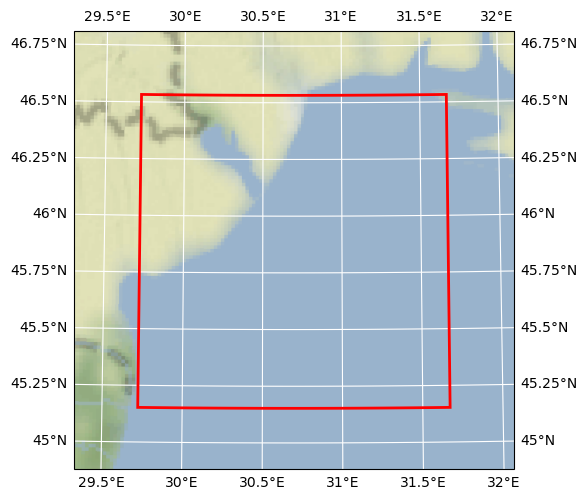
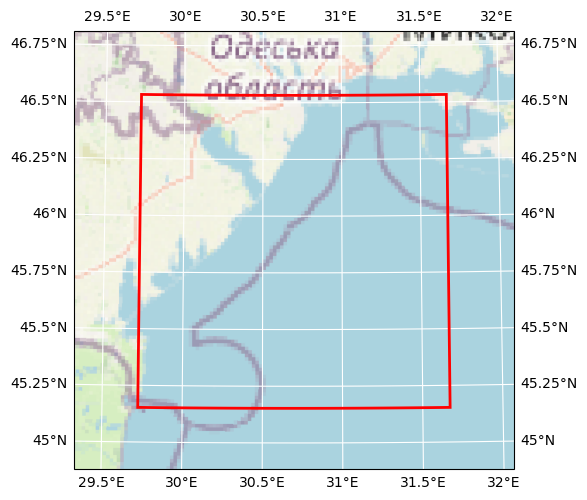
updated data cube docs

diff --git a/docs/datasets/BlackSea_1d_20160101_20160331_bgc_nut.md b/docs/datasets/BlackSea_1d_20160101_20160331_bgc_nut.md
@@ -3,7 +3,7 @@
 ## Basic information
 
 ![Bounding box map](BlackSea_1d_20160101_20160331_bgc_nut.png)<br>
-<span style="font-size: x-small">Map tiles by <a href="http://stamen.com">Stamen Design</a>, under <a href="http://creativecommons.org/licenses/by/3.0">CC BY 3.0</a>. Data by <a href="http://openstreetmap.org">OpenStreetMap</a>, under <a href="http://www.openstreetmap.org/copyright">ODbL</a>.</span>
+<span style="font-size: x-small">Map tiles and Data by <a href="http://openstreetmap.org">OpenStreetMap</a>, under <a href="http://www.openstreetmap.org/copyright">ODbL</a>.</span>
 
 | Parameter | Value |
 | ---- | ---- |
@@ -17,26 +17,23 @@
 
 ## Variable list
 
-| Variable | Identifier | Units |
-| ---- | ---- | ---- |
-| [bivalent iron iron](#F2\_f) | F2\_f | umol Fe/m^3 |
-| [trivalent iron iron](#F3\_f) | F3\_f | umol Fe/m^3 |
-| [bivalent manganese manganese](#M2\_m) | M2\_m | umol Mn/m^3 |
-| [trivalent manganese manganese](#M3\_m) | M3\_m | umol Mn/m^3 |
+| Variable                                   | Identifier | Units |
+|--------------------------------------------| ---- | ---- |
+| [bivalent iron iron](#F2\_f)               | F2\_f | umol Fe/m^3 |
+| [trivalent iron iron](#F3\_f)              | F3\_f | umol Fe/m^3 |
+| [bivalent manganese manganese](#M2\_m)     | M2\_m | umol Mn/m^3 |
+| [trivalent manganese manganese](#M3\_m)    | M3\_m | umol Mn/m^3 |
 | [quadrivalent manganese manganese](#M4\_m) | M4\_m | umol Mn/m^3 |
-| [phosphate phosphorus](#N1\_p) | N1\_p | mmol P/m^3 |
-| [nitrite nitrogen](#N2\_n) | N2\_n | mmol N/m^3 |
-| [nitrate nitrogen](#N3\_n) | N3\_n | mmol N/m^3 |
-| [ammonium nitrogen](#N4\_n) | N4\_n | mmol N/m^3 |
-| [silicate silicate](#N5\_s) | N5\_s | mmol Si/m^3 |
-| [oxygen oxygen](#O2\_o) | O2\_o | mmol O\_2/m^3 |
-| [hydrogen sulfide sulfur](#S1\_u) | S1\_u | mmol Su/m^3 |
-| [elemental sulfur sulfur](#S2\_u) | S2\_u | mmol Su/m^3 |
-| [sulfate sulfur](#S3\_u) | S3\_u | mmol Su/m^3 |
-| [thiosulfate sulfur](#S4\_u) | S4\_u | mmol Su/m^3 |
-| [\[none\]](#deptht\_bounds) | deptht\_bounds | \[none\] |
-| [\[none\]](#time\_centered\_bounds) | time\_centered\_bounds | \[none\] |
-| [\[none\]](#time\_counter\_bounds) | time\_counter\_bounds | \[none\] |
+| [phosphate phosphorus](#N1\_p)             | N1\_p | mmol P/m^3 |
+| [nitrite nitrogen](#N2\_n)                 | N2\_n | mmol N/m^3 |
+| [nitrate nitrogen](#N3\_n)                 | N3\_n | mmol N/m^3 |
+| [ammonium nitrogen](#N4\_n)                | N4\_n | mmol N/m^3 |
+| [silicate silicate](#N5\_s)                | N5\_s | mmol Si/m^3 |
+| [oxygen oxygen](#O2\_o)                    | O2\_o | mmol O\_2/m^3 |
+| [hydrogen sulfide sulfur](#S1\_u)          | S1\_u | mmol Su/m^3 |
+| [elemental sulfur sulfur](#S2\_u)          | S2\_u | mmol Su/m^3 |
+| [sulfate sulfur](#S3\_u)                   | S3\_u | mmol Su/m^3 |
+| [thiosulfate sulfur](#S4\_u)               | S4\_u | mmol Su/m^3 |
 
 ## Full variable metadata
 
@@ -204,21 +201,6 @@
 | long\_name | thiosulfate sulfur |
 | online\_operation | average |
 | units | mmol Su/m^3 |
-
-### <a name="deptht_bounds"></a>None
-
-| Field | Value |
-| ---- | ---- |
-
-### <a name="time_centered_bounds"></a>None
-
-| Field | Value |
-| ---- | ---- |
-
-### <a name="time_counter_bounds"></a>None
-
-| Field | Value |
-| ---- | ---- |
 
 ## <a name="full-metadata"></a>Full dataset metadata
 

diff --git a/docs/datasets/c_gls_LWQ300_black_OLCI_V1.4.0_owt.md b/docs/datasets/c_gls_LWQ300_black_OLCI_V1.4.0_owt.md
@@ -3,7 +3,7 @@
 ## Basic information
 
 ![Bounding box map](c_gls_LWQ300_black_OLCI_V1.4.0_owt.png)<br>
-<span style="font-size: x-small">Map tiles by <a href="http://stamen.com">Stamen Design</a>, under <a href="http://creativecommons.org/licenses/by/3.0">CC BY 3.0</a>. Data by <a href="http://openstreetmap.org">OpenStreetMap</a>, under <a href="http://www.openstreetmap.org/copyright">ODbL</a>.</span>
+<span style="font-size: x-small">Map tiles and Data by <a href="http://openstreetmap.org">OpenStreetMap</a>, under <a href="http://www.openstreetmap.org/copyright">ODbL</a>.</span>
 
 | Parameter | Value |
 | ---- | ---- |
@@ -17,26 +17,26 @@
 
 ## Variable list
 
-| Variable | Identifier | Units |
-| ---- | ---- | ---- |
-| [Optical Water Type 1](#OWT\_1) | OWT\_1 | \[none\] |
-| [Optical Water Type 10](#OWT\_10) | OWT\_10 | \[none\] |
-| [Optical Water Type 11](#OWT\_11) | OWT\_11 | \[none\] |
-| [Optical Water Type 12](#OWT\_12) | OWT\_12 | \[none\] |
-| [Optical Water Type 13](#OWT\_13) | OWT\_13 | \[none\] |
-| [Optical Water Type 14](#OWT\_14) | OWT\_14 | \[none\] |
-| [Optical Water Type 15](#OWT\_15) | OWT\_15 | \[none\] |
-| [Optical Water Type 16](#OWT\_16) | OWT\_16 | \[none\] |
-| [Optical Water Type 17](#OWT\_17) | OWT\_17 | \[none\] |
-| [Optical Water Type 18](#OWT\_18) | OWT\_18 | \[none\] |
-| [Optical Water Type 2](#OWT\_2) | OWT\_2 | \[none\] |
-| [Optical Water Type 3](#OWT\_3) | OWT\_3 | \[none\] |
-| [Optical Water Type 4](#OWT\_4) | OWT\_4 | \[none\] |
-| [Optical Water Type 5](#OWT\_5) | OWT\_5 | \[none\] |
-| [Optical Water Type 6](#OWT\_6) | OWT\_6 | \[none\] |
-| [Optical Water Type 7](#OWT\_7) | OWT\_7 | \[none\] |
-| [Optical Water Type 8](#OWT\_8) | OWT\_8 | \[none\] |
-| [Optical Water Type 9](#OWT\_9) | OWT\_9 | \[none\] |
+| Variable                                      | Identifier | Units |
+|-----------------------------------------------| ---- | ---- |
+| [Optical Water Type 1](#OWT\_1)               | OWT\_1 | \[none\] |
+| [Optical Water Type 10](#OWT\_10)             | OWT\_10 | \[none\] |
+| [Optical Water Type 11](#OWT\_11)             | OWT\_11 | \[none\] |
+| [Optical Water Type 12](#OWT\_12)             | OWT\_12 | \[none\] |
+| [Optical Water Type 13](#OWT\_13)             | OWT\_13 | \[none\] |
+| [Optical Water Type 14](#OWT\_14)             | OWT\_14 | \[none\] |
+| [Optical Water Type 15](#OWT\_15)             | OWT\_15 | \[none\] |
+| [Optical Water Type 16](#OWT\_16)             | OWT\_16 | \[none\] |
+| [Optical Water Type 17](#OWT\_17)             | OWT\_17 | \[none\] |
+| [Optical Water Type 18](#OWT\_18)             | OWT\_18 | \[none\] |
+| [Optical Water Type 2](#OWT\_2)               | OWT\_2 | \[none\] |
+| [Optical Water Type 3](#OWT\_3)               | OWT\_3 | \[none\] |
+| [Optical Water Type 4](#OWT\_4)               | OWT\_4 | \[none\] |
+| [Optical Water Type 5](#OWT\_5)               | OWT\_5 | \[none\] |
+| [Optical Water Type 6](#OWT\_6)               | OWT\_6 | \[none\] |
+| [Optical Water Type 7](#OWT\_7)               | OWT\_7 | \[none\] |
+| [Optical Water Type 8](#OWT\_8)               | OWT\_8 | \[none\] |
+| [Optical Water Type 9](#OWT\_9)               | OWT\_9 | \[none\] |
 | [Dominant Optical Water Type](#dominant\_OWT) | dominant\_OWT | \[none\] |
 
 ## Full variable metadata

diff --git a/docs/datasets/west2018_01_01_2020_reg_hydro_0.01.md b/docs/datasets/west2018_01_01_2020_reg_hydro_0.01.md
@@ -3,7 +3,7 @@
 ## Basic information
 
 ![Bounding box map](west2018_01_01_2020_reg_hydro_0.01.png)<br>
-<span style="font-size: x-small">Map tiles by <a href="http://stamen.com">Stamen Design</a>, under <a href="http://creativecommons.org/licenses/by/3.0">CC BY 3.0</a>. Data by <a href="http://openstreetmap.org">OpenStreetMap</a>, under <a href="http://www.openstreetmap.org/copyright">ODbL</a>.</span>
+<span style="font-size: x-small">Map tiles and Data by <a href="http://openstreetmap.org">OpenStreetMap</a>, under <a href="http://www.openstreetmap.org/copyright">ODbL</a>.</span>
 
 | Parameter | Value |
 | ---- | ---- |
@@ -18,27 +18,17 @@
 
 ## Variable list
 
-| Variable | Identifier | Units |
-| ---- | ---- | ---- |
-| [\[none\]](#lev) | lev | m |
-| [\[none\]](#total\_depth) | total\_depth | m |
-| [\[none\]](#u\_velocity) | u\_velocity | m s\-1 |
-| [\[none\]](#v\_velocity) | v\_velocity | m s\-1 |
-| [\[none\]](#water\_level) | water\_level | m |
+| Variable                                                    | Identifier | Units |
+|-------------------------------------------------------------| ---- | ---- |
+| [Total Depth](#total\_depth)                                | total\_depth | m |
+| [Eastward Sea Water Velocity](#u\_velocity)                 | u\_velocity | m s\-1 |
+| [Northward Sea Water Velocity](#v\_velocity)                | v\_velocity | m s\-1 |
+| [Water Surface Height above Reference Datum](#water\_level) | water\_level | m |
 
 ## Full variable metadata
 
-### <a name="lev"></a>None
 
-| Field | Value |
-| ---- | ---- |
-| axis | Z |
-| description | bottom of vertical layers |
-| positive | down |
-| standard\_name | depth |
-| units | m |
-
-### <a name="total_depth"></a>None
+### <a name="total_depth"></a>Total Depth
 
 | Field | Value |
 | ---- | ---- |
@@ -48,7 +38,7 @@
 | valid\_max | 10000.0 |
 | valid\_min | -100.0 |
 
-### <a name="u_velocity"></a>None
+### <a name="u_velocity"></a>Eastward Sea Water Velocity
 
 | Field | Value |
 | ---- | ---- |
@@ -57,7 +47,7 @@
 | valid\_max | 10.0 |
 | valid\_min | -10.0 |
 
-### <a name="v_velocity"></a>None
+### <a name="v_velocity"></a>Northward Sea Water Velocity
 
 | Field | Value |
 | ---- | ---- |
@@ -66,7 +56,7 @@
 | valid\_max | 10.0 |
 | valid\_min | -10.0 |
 
-### <a name="water_level"></a>None
+### <a name="water_level"></a>Water Surface Height above Reference Datum
 
 | Field | Value |
 | ---- | ---- |

diff --git a/docs/datasets/west2018_01_01_2020_reg_ts_0.01.md b/docs/datasets/west2018_01_01_2020_reg_ts_0.01.md
@@ -3,7 +3,7 @@
 ## Basic information
 
 ![Bounding box map](west2018_01_01_2020_reg_ts_0.01.png)<br>
-<span style="font-size: x-small">Map tiles by <a href="http://stamen.com">Stamen Design</a>, under <a href="http://creativecommons.org/licenses/by/3.0">CC BY 3.0</a>. Data by <a href="http://openstreetmap.org">OpenStreetMap</a>, under <a href="http://www.openstreetmap.org/copyright">ODbL</a>.</span>
+<span style="font-size: x-small">Map tiles and Data by <a href="http://openstreetmap.org">OpenStreetMap</a>, under <a href="http://www.openstreetmap.org/copyright">ODbL</a>.</span>
 
 | Parameter | Value |
 | ---- | ---- |
@@ -18,26 +18,15 @@
 
 ## Variable list
 
-| Variable | Identifier | Units |
-| ---- | ---- | ---- |
-| [\[none\]](#lev) | lev | m |
-| [\[none\]](#salinity) | salinity | 1e\-3 |
-| [\[none\]](#temperature) | temperature | degC |
-| [\[none\]](#total\_depth) | total\_depth | m |
+| Variable                     | Identifier | Units |
+|------------------------------| ---- | ---- |
+| [Salinity](#salinity)        | salinity | 1e\-3 |
+| [Temperature](#temperature)  | temperature | degC |
+| [Total Depth](#total\_depth) | total\_depth | m |
 
 ## Full variable metadata
 
-### <a name="lev"></a>None
-
-| Field | Value |
-| ---- | ---- |
-| axis | Z |
-| description | bottom of vertical layers |
-| positive | down |
-| standard\_name | depth |
-| units | m |
-
-### <a name="salinity"></a>None
+### <a name="salinity"></a>Salinity
 
 | Field | Value |
 | ---- | ---- |
@@ -46,7 +35,7 @@
 | valid\_max | 200.0 |
 | valid\_min | 0.0 |
 
-### <a name="temperature"></a>None
+### <a name="temperature"></a>Temperature
 
 | Field | Value |
 | ---- | ---- |
@@ -55,7 +44,7 @@
 | valid\_max | 100.0 |
 | valid\_min | -10.0 |
 
-### <a name="total_depth"></a>None
+### <a name="total_depth"></a>Total Depth
 
 | Field | Value |
 | ---- | ---- |

diff --git a/docs/datasets/BlackSea_1d_20160101_20160331_bgc_phyto.md b/docs/datasets/BlackSea_1d_20160101_20160331_bgc_phyto.md
@@ -3,7 +3,7 @@
 ## Basic information
 
 ![Bounding box map](BlackSea_1d_20160101_20160331_bgc_phyto.png)<br>
-<span style="font-size: x-small">Map tiles by <a href="http://stamen.com">Stamen Design</a>, under <a href="http://creativecommons.org/licenses/by/3.0">CC BY 3.0</a>. Data by <a href="http://openstreetmap.org">OpenStreetMap</a>, under <a href="http://www.openstreetmap.org/copyright">ODbL</a>.</span>
+<span style="font-size: x-small">Map tiles and Data by <a href="http://openstreetmap.org">OpenStreetMap</a>, under <a href="http://www.openstreetmap.org/copyright">ODbL</a>.</span>
 
 | Parameter | Value |
 | ---- | ---- |
@@ -40,9 +40,6 @@
 | [microphytoplankton iron](#P4\_f) | P4\_f | umol Fe/m^3 |
 | [microphytoplankton nitrogen](#P4\_n) | P4\_n | mmol N/m^3 |
 | [microphytoplankton phosphorus](#P4\_p) | P4\_p | mmol P/m^3 |
-| [\[none\]](#deptht\_bounds) | deptht\_bounds | \[none\] |
-| [\[none\]](#time\_centered\_bounds) | time\_centered\_bounds | \[none\] |
-| [\[none\]](#time\_counter\_bounds) | time\_counter\_bounds | \[none\] |
 
 ## Full variable metadata
 
@@ -276,21 +273,6 @@
 | long\_name | microphytoplankton phosphorus |
 | online\_operation | average |
 | units | mmol P/m^3 |
-
-### <a name="deptht_bounds"></a>None
-
-| Field | Value |
-| ---- | ---- |
-
-### <a name="time_centered_bounds"></a>None
-
-| Field | Value |
-| ---- | ---- |
-
-### <a name="time_counter_bounds"></a>None
-
-| Field | Value |
-| ---- | ---- |
 
 ## <a name="full-metadata"></a>Full dataset metadata
 

diff --git a/docs/datasets/Hereon--WAVES-BSeas4-BS-b20230123_re-sv08.00.md b/docs/datasets/Hereon--WAVES-BSeas4-BS-b20230123_re-sv08.00.md
@@ -3,7 +3,7 @@
 ## Basic information
 
 ![Bounding box map](Hereon--WAVES-BSeas4-BS-b20230123_re-sv08.00.png)<br>
-<span style="font-size: x-small">Map tiles by <a href="http://stamen.com">Stamen Design</a>, under <a href="http://creativecommons.org/licenses/by/3.0">CC BY 3.0</a>. Data by <a href="http://openstreetmap.org">OpenStreetMap</a>, under <a href="http://www.openstreetmap.org/copyright">ODbL</a>.</span>
+<span style="font-size: x-small">Map tiles and Data by <a href="http://openstreetmap.org">OpenStreetMap</a>, under <a href="http://www.openstreetmap.org/copyright">ODbL</a>.</span>
 
 | Parameter | Value |
 | ---- | ---- |
@@ -127,5 +127,5 @@
 | time\_coverage\_end | 2021\-11\-30T23:00:00 |
 | time\_coverage\_start | 2021\-11\-01T00:00:00 |
 | time\_period | 1H |
-| title | Wave Products \(2D\) \- Instantaneous Field |
+| title | DOORS Hereon Wave Products \(2D\) \- Instantaneous Field |
 

diff --git a/docs/datasets/coawst_his_sample_psi.md b/docs/datasets/coawst_his_sample_psi.md
@@ -3,7 +3,7 @@
 ## Basic information
 
 ![Bounding box map](coawst_his_sample_psi.png)<br>
-<span style="font-size: x-small">Map tiles by <a href="http://stamen.com">Stamen Design</a>, under <a href="http://creativecommons.org/licenses/by/3.0">CC BY 3.0</a>. Data by <a href="http://openstreetmap.org">OpenStreetMap</a>, under <a href="http://www.openstreetmap.org/copyright">ODbL</a>.</span>
+<span style="font-size: x-small">Map tiles and Data by <a href="http://openstreetmap.org">OpenStreetMap</a>, under <a href="http://www.openstreetmap.org/copyright">ODbL</a>.</span>
 
 | Parameter | Value |
 | ---- | ---- |

diff --git a/docs/datasets/coawst_his_sample_rho.md b/docs/datasets/coawst_his_sample_rho.md
@@ -3,7 +3,7 @@
 ## Basic information
 
 ![Bounding box map](coawst_his_sample_rho.png)<br>
-<span style="font-size: x-small">Map tiles by <a href="http://stamen.com">Stamen Design</a>, under <a href="http://creativecommons.org/licenses/by/3.0">CC BY 3.0</a>. Data by <a href="http://openstreetmap.org">OpenStreetMap</a>, under <a href="http://www.openstreetmap.org/copyright">ODbL</a>.</span>
+<span style="font-size: x-small">Map tiles and Data by <a href="http://openstreetmap.org">OpenStreetMap</a>, under <a href="http://www.openstreetmap.org/copyright">ODbL</a>.</span>
 
 | Parameter | Value |
 | ---- | ---- |

diff --git a/docs/datasets/coawst_his_sample_u.md b/docs/datasets/coawst_his_sample_u.md
@@ -3,7 +3,7 @@
 ## Basic information
 
 ![Bounding box map](coawst_his_sample_u.png)<br>
-<span style="font-size: x-small">Map tiles by <a href="http://stamen.com">Stamen Design</a>, under <a href="http://creativecommons.org/licenses/by/3.0">CC BY 3.0</a>. Data by <a href="http://openstreetmap.org">OpenStreetMap</a>, under <a href="http://www.openstreetmap.org/copyright">ODbL</a>.</span>
+<span style="font-size: x-small">Map tiles and Data by <a href="http://openstreetmap.org">OpenStreetMap</a>, under <a href="http://www.openstreetmap.org/copyright">ODbL</a>.</span>
 
 | Parameter | Value |
 | ---- | ---- |

diff --git a/docs/datasets/coawst_his_sample_v.md b/docs/datasets/coawst_his_sample_v.md
@@ -3,7 +3,7 @@
 ## Basic information
 
 ![Bounding box map](coawst_his_sample_v.png)<br>
-<span style="font-size: x-small">Map tiles by <a href="http://stamen.com">Stamen Design</a>, under <a href="http://creativecommons.org/licenses/by/3.0">CC BY 3.0</a>. Data by <a href="http://openstreetmap.org">OpenStreetMap</a>, under <a href="http://www.openstreetmap.org/copyright">ODbL</a>.</span>
+<span style="font-size: x-small">Map tiles and Data by <a href="http://openstreetmap.org">OpenStreetMap</a>, under <a href="http://www.openstreetmap.org/copyright">ODbL</a>.</span>
 
 | Parameter | Value |
 | ---- | ---- |
